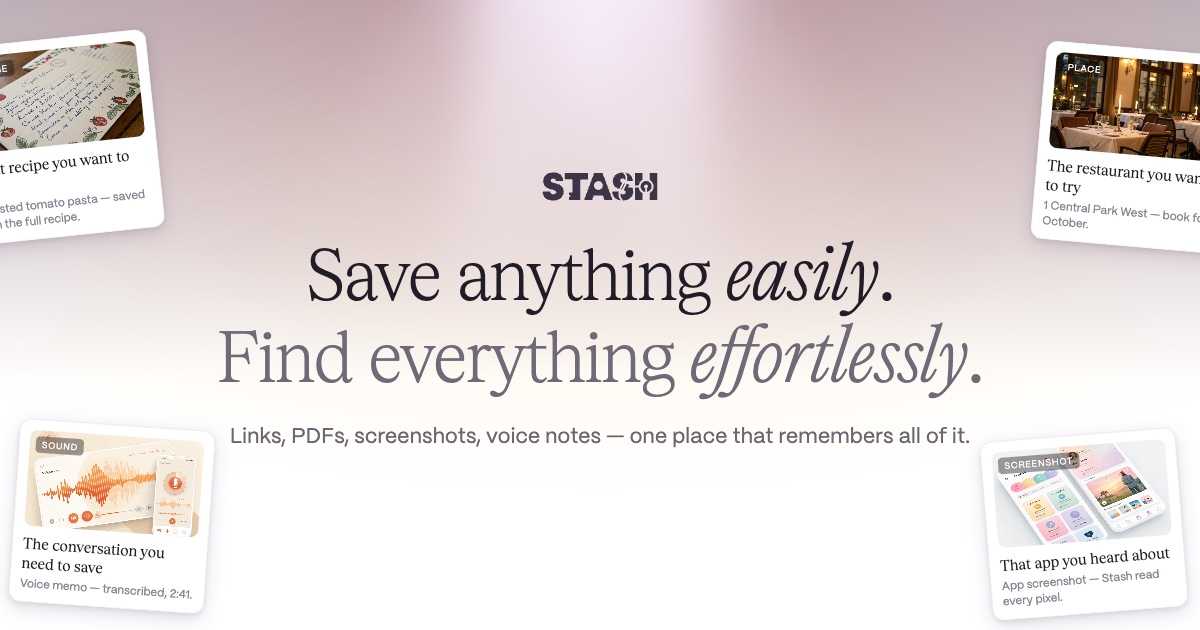
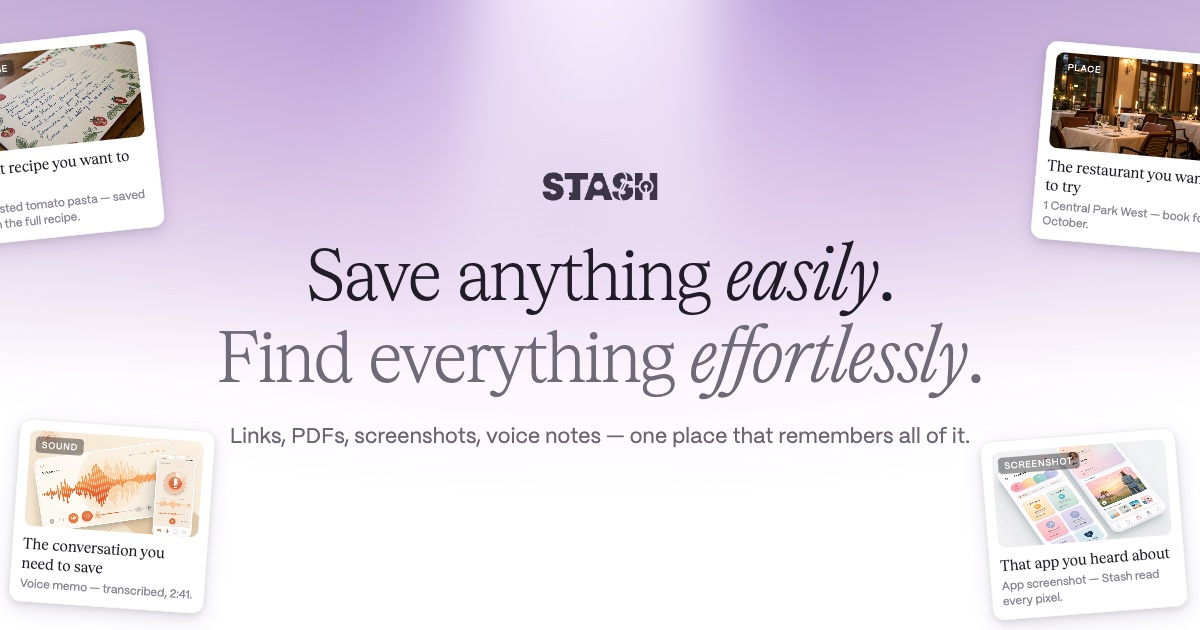
Shift the hero gradient from peach to violet
Retune hero-gradient hues (15-35° orange → 270-300° violet) and the dusk
overlay to a cleaner purple so the top of the hero reads lilac instead of
brown/eggplant. Regenerate the OG image with the same values.

diff --git a/src/index.css b/src/index.css
@@ -214,10 +214,10 @@
 
   .hero-gradient {
     background: radial-gradient(
-      ellipse 100% 70% at 50% 0%, 
-      hsla(15, 100%, 75%, 0.5) 0%,
-      hsla(25, 100%, 80%, 0.35) 30%,
-      hsla(35, 100%, 85%, 0.15) 55%,
+      ellipse 100% 70% at 50% 0%,
+      hsla(270, 90%, 76%, 0.5) 0%,
+      hsla(285, 85%, 81%, 0.35) 30%,
+      hsla(300, 85%, 87%, 0.15) 55%,
       transparent 75%
     );
   }

diff --git a/src/pages/Landing.tsx b/src/pages/Landing.tsx
@@ -251,7 +251,7 @@ const Landing = () => {
           opacity: gradientOpacity,
           height: '65vh',
           background:
-            'linear-gradient(to bottom, rgba(64,45,92,0.32) 0%, rgba(64,45,92,0.14) 35%, transparent 70%)',
+            'linear-gradient(to bottom, rgba(74,42,125,0.30) 0%, rgba(74,42,125,0.13) 35%, transparent 70%)',
         }}
       />
 
